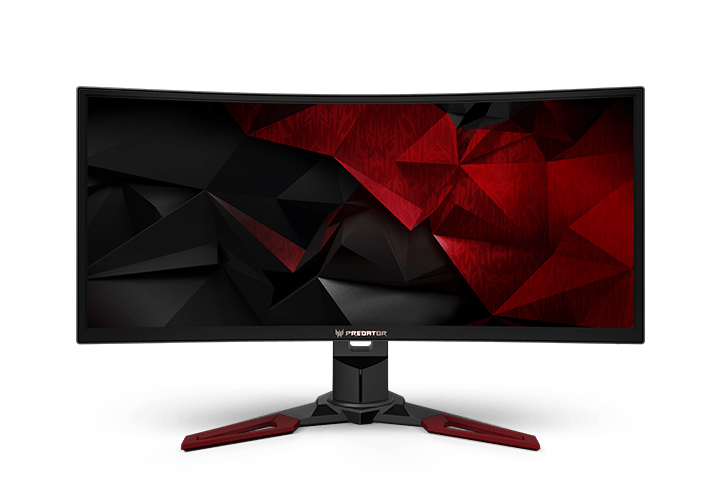
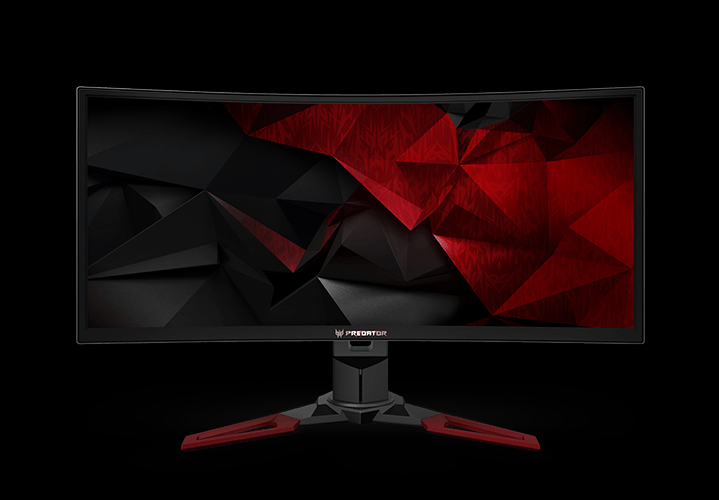
s

diff --git a/shop.html b/shop.html
@@ -19,7 +19,7 @@
         <style>
 
         .big-wrapper{
-            height: 75vh;
+            height: 78.9vh;
             overflow-y: hidden;
         }
 
@@ -56,10 +56,11 @@
             background-position: center;
             background-size: contain;
             background-repeat: no-repeat;
+            background-color: black;
             width: 30vw;
         }
 
-        .monitors-wrap {
+        .wrap {
             width: 100%;
             height: 100%;
             display: grid;
@@ -67,7 +68,7 @@
             justify-items: center;
         }
 
-        .monitors-wrap:hover {
+        .wrap:hover {
             backdrop-filter: blur(8px);
             transition: all 250ms ease;
         }
@@ -145,23 +146,27 @@
 
                 <div class="peripherals">
 
-                    <p class="peripherals-text" style="text-align: center;"
-                        id="peripherals-top-text"> Quality keyboards,
-                        mice,
-                        and headphones </p>
+                    <div class="wrap" href="#">
 
-                    <p class="peripherals-text"> NIGHT PERIPHERALS</p>
+                        <p class="peripherals-text" style="text-align: center;"
+                            id="peripherals-top-text"> Quality keyboards,
+                            mice,
+                            and headphones </p>
 
-                    <a class="peripherals-link" href="peripherals.html"> <button
-                            class="peripherals-button"> SHOP NOW
-                        </button>
-                    </a>
+                        <p class="peripherals-text"> NIGHT PERIPHERALS</p>
+
+                        <a class="peripherals-link" href="peripherals.html"> <button
+                                class="peripherals-button"> SHOP NOW
+                            </button>
+                        </a>
+
+                    </div>
 
                 </div>
 
                 <div class="monitors">
 
-                    <div class="monitors-wrap" href="#">
+                    <div class="wrap" href="#">
 
                         <p class="monitors-text"> Monitors and monitor arms </p>
 

diff --git a/social-media.html b/social-media.html
@@ -83,7 +83,7 @@
 
             <div class="facebook">
 
-                <a class="social-link" href="#facebook">
+                <a class="social-link" target="_blank" href="https://www.facebook.com/">
 
                     <img class="social-icon" id="facebook-icon" src="images/facebook.png">
 
@@ -95,7 +95,7 @@
 
             <div class="instagram">
 
-                <a class="social-link" href="#instagram">
+                <a class="social-link" target="_blank" href="https://www.instagram.com/">
 
                     <img class="social-icon" id="instagram-icon" src="images/instagram.png">
 
@@ -107,7 +107,7 @@
 
             <div class="tik-tok">
 
-                <a class="social-link" href="#tik-tok">
+                <a class="social-link" target="_blank" href="https://www.tiktok.com/en/">
 
                     <img class="social-icon" id="tik-tok-icon" src="images/tik-tok.png">
 

diff --git a/systems.html b/systems.html
@@ -117,7 +117,7 @@
 
             <p class="big-header-text"> NIGHT SYSTEMS </p>
 
-            <p class="small-header-text"> Quality keyboards, mice, headphones </p>
+            <p class="small-header-text"> Quality desktop PCs </p>
 
         </div>
 
@@ -139,7 +139,7 @@
 
                     <div class="product-box" id="product-box-1">
 
-                        <img class="product-image" id="product-image-1" src="images/systems-item-1.png">
+                        <img class="product-image" id="product-image-1" src="images/system-item-1.jpg">
 
                         <p class="product-name-text"> LaterShock Fast A E-Sports Battlestation </p>
 

diff --git a/index.html b/index.html
@@ -19,8 +19,7 @@
     <style>
 
         .big-wrapper{
-            height: fit-content;
-            margin-bottom: 2%;
+            height: 85vh;;
         }
 
         .big-image-wrapper {

diff --git a/webpub.css b/webpub.css
@@ -58,7 +58,6 @@ body {
 
 .bottom-nav-bar {
     background-color: black;
-    bottom: 0%;
     width: 100%;
     box-shadow: -8px -8px 8px 8px rgba(0, 0, 0, 0.2);
 }
